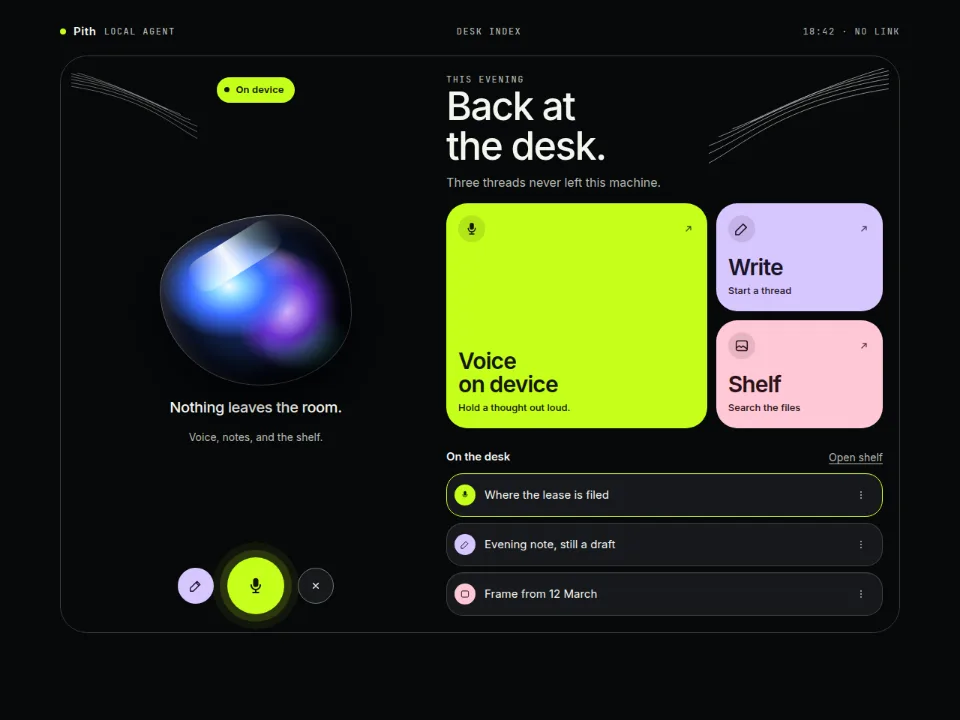
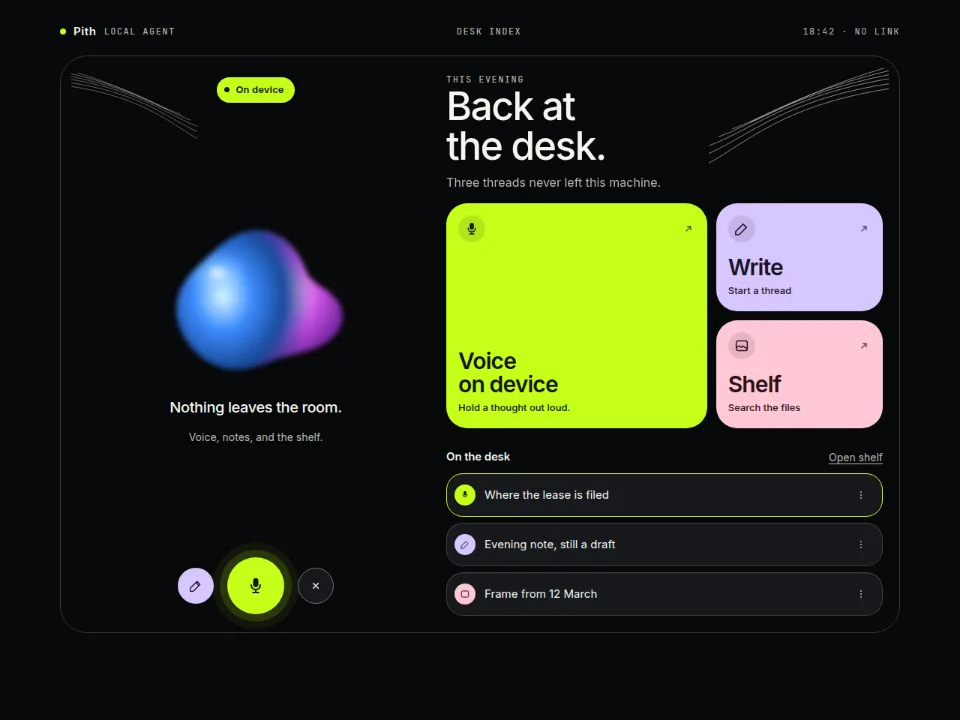
Soften the Acid Lime orb into a pinched smear. (#19)
The silhouette is an irregular lump instead of a rounded pebble, and the blue, cyan, and magenta feather into the black instead of sitting in hard spots.

Changed region(s): [[0.1562, 0.275, 0.375, 0.5194], [0.25, 0.55, 0.2812, 0.5806]]

diff --git a/templates/acid-lime/demo.html b/templates/acid-lime/demo.html
@@ -125,41 +125,25 @@
 
 	.orb {
 		width: 256px; height: 228px; position: relative; flex: none;
-		filter: drop-shadow(0 22px 16px rgb(0 0 0 / 0.55));
+		filter: blur(3.5px);
 	}
 	.orb-body {
-		position: absolute; inset: 0; overflow: hidden;
-		border-radius: 63% 37% 48% 52% / 44% 58% 42% 56%;
-		background:
-			radial-gradient(ellipse 56% 48% at 36% 42%, #f7feff 0%, #8ad8ff 14%, #3a6dff 36%, transparent 64%),
-			radial-gradient(ellipse 42% 50% at 66% 56%, #d7b4ff 0%, #6d32d4 34%, transparent 68%),
-			radial-gradient(ellipse 26% 22% at 58% 34%, #ffc4e4 0%, transparent 72%),
-			radial-gradient(ellipse 34% 28% at 76% 74%, #67f0ff 0%, transparent 70%),
-			radial-gradient(circle at 48% 52%, #16306c 0%, #090d1c 62%, #05060c 100%);
-		box-shadow:
-			inset 0 0 0 1px rgb(255 255 255 / 0.28),
-			inset 12px 10px 22px rgb(255 255 255 / 0.16),
-			inset -26px -22px 36px rgb(0 0 0 / 0.72);
+		position: absolute; inset: 0;
+		background-color: #121a30;
+		background-image:
+			radial-gradient(ellipse 40% 32% at 30% 34%, rgb(255 255 255 / 0.92) 0%, rgb(198 250 255 / 0.3) 16%, transparent 42%),
+			radial-gradient(ellipse 58% 76% at 33% 48%, #d7f8ff 0%, #3d8cff 26%, #1a4a9a 55%, transparent 78%),
+			radial-gradient(ellipse 56% 68% at 66% 46%, #ffd0f6 0%, #c44ee0 32%, #6a2498 58%, transparent 80%),
+			radial-gradient(ellipse 40% 46% at 50% 52%, rgb(120 220 255 / 0.45) 0%, transparent 62%),
+			radial-gradient(ellipse 34% 30% at 58% 66%, rgb(255 150 210 / 0.4) 0%, transparent 64%),
+			radial-gradient(ellipse 28% 34% at 76% 68%, rgb(110 245 255 / 0.5) 0%, transparent 68%),
+			radial-gradient(ellipse 80% 48% at 50% 112%, rgb(0 0 0 / 0.5) 0%, transparent 58%);
+		clip-path: polygon(50.0% 8.8%, 57.4% 9.9%, 64.0% 13.5%, 69.2% 18.8%, 72.9% 24.7%, 75.4% 30.7%, 77.5% 36.1%, 81.7% 40.5%, 88.2% 45.3%, 93.8% 52.0%, 95.6% 60.0%, 93.4% 67.8%, 88.1% 74.0%, 81.2% 78.2%, 74.0% 80.6%, 67.5% 82.3%, 61.7% 84.2%, 56.1% 86.5%, 50.0% 88.9%, 43.2% 90.5%, 36.0% 90.4%, 29.0% 88.3%, 22.8% 84.4%, 17.6% 79.2%, 13.4% 73.1%, 10.4% 66.4%, 8.7% 59.3%, 8.6% 52.0%, 10.2% 45.0%, 13.3% 38.6%, 17.3% 33.1%, 21.7% 28.2%, 26.1% 23.5%, 30.8% 18.7%, 36.2% 14.1%, 42.7% 10.4%);
 		animation: sheen var(--duration-sheen) var(--ease-ui) infinite;
 	}
-	.orb-body::before {
-		content: "";
-		position: absolute; width: 54%; height: 20%; left: 12%; top: 14%;
-		border-radius: var(--radius-full);
-		background: linear-gradient(90deg, transparent, rgb(255 255 255 / 0.95) 42%, rgb(214 255 255 / 0.4) 70%, transparent);
-		transform: rotate(-32deg);
-		filter: blur(0.6px);
-	}
-	.orb-body::after {
-		content: "";
-		position: absolute; inset: 0; border-radius: inherit; pointer-events: none;
-		background:
-			radial-gradient(ellipse 78% 74% at 46% 44%, transparent 46%, rgb(0 0 0 / 0.28) 72%, rgb(0 0 0 / 0.78) 100%);
-		box-shadow: inset 0 1px 0 rgb(255 255 255 / 0.35);
-	}
 	@keyframes sheen {
-		0%, 100% { border-radius: 63% 37% 48% 52% / 44% 58% 42% 56%; }
-		50% { border-radius: 52% 48% 58% 42% / 56% 44% 50% 50%; }
+		0%, 100% { transform: translate3d(0, 0, 0); }
+		50% { transform: translate3d(1.5%, 1%, 0); }
 	}
 
 	.topo {
@@ -306,7 +290,7 @@
 		background: var(--color-surface); display: grid; place-items: center;
 		position: relative; overflow: hidden;
 	}
-	.well .orb { width: 140px; height: 130px; }
+	.well .orb { width: 140px; height: 130px; filter: blur(2.5px); }
 	.radii { display: flex; align-items: flex-end; gap: 10px; min-height: 180px; padding: 8px; }
 	.radii i { display: block; background: var(--color-primary); color: var(--color-primary-foreground); }
 	.radii i:nth-child(1) { width: 48px; height: 64px; border-radius: var(--radius-sm); }
@@ -421,7 +405,7 @@
 	.cmp-on .note { color: var(--color-muted); }
 	.on-row { display: flex; flex-wrap: wrap; gap: 8px; align-items: center; }
 	.cmp-on .well { min-height: 120px; }
-	.cmp-on .orb { width: 92px; height: 86px; }
+	.cmp-on .orb { width: 92px; height: 86px; filter: blur(2px); }
 
 	.split { display: grid; grid-template-columns: minmax(0, 1fr) 340px; gap: 28px; align-items: start; }
 	.notes { margin: 14px 0 0; padding-left: 1.2em; display: grid; gap: 10px; }
@@ -437,7 +421,7 @@
 	.handset { padding-bottom: 30px; }
 	.handset .topo { width: 156px; height: 78px; top: 0; right: 0; }
 	.handset .capsule { align-self: center; position: relative; z-index: 1; }
-	.handset .orb { width: 112px; height: 104px; margin: 10px auto 0; }
+	.handset .orb { width: 112px; height: 104px; margin: 10px auto 0; filter: blur(2.5px); }
 	.handset h3 {
 		font-size: 32px; font-weight: 500; letter-spacing: -0.035em; line-height: 1.02;
 	}
@@ -474,7 +458,7 @@
 		.presence { gap: 10px; }
 		.presence-core { gap: 8px; }
 		.presence-line { font-size: 18px; }
-		.orb { width: 142px; height: 128px; }
+		.presence .orb { width: 142px; height: 128px; filter: blur(3px); }
 		.desk { gap: 12px; }
 		.recent { margin-top: 28px; }
 		.greet h1 { font-size: 34px; }
@@ -666,11 +650,11 @@
 			<div class="wrap">
 				<p class="kicker">02 — Shape and depth</p>
 				<h2>A glass body, a round corner</h2>
-				<p class="lede">The orb holds the color. The tiles are flat fills with a generous radius. Contour lines are a few strokes in the corner, not a texture.</p>
+				<p class="lede">The orb is a dented smear of blue, cyan, and magenta. The tiles stay flat fills with a generous radius. Contour lines are a few strokes in the corner, not a texture.</p>
 				<div class="specimens block">
 					<figure>
 						<div class="well"><div class="orb" aria-hidden="true"><span class="orb-body"></span></div></div>
-						<figcaption>One iridescent body. Blue, violet, cyan, a dark rim. It is presence, not a control.</figcaption>
+						<figcaption>One pinched lump. Blue, cyan, and magenta smear together, and the edge fades into the desk. It is presence, not a control.</figcaption>
 					</figure>
 					<figure>
 						<div class="well"><div class="radii" aria-hidden="true"><i></i><i></i><i></i><i></i></div></div>

diff --git a/templates/acid-lime/DESIGN.md b/templates/acid-lime/DESIGN.md
@@ -4,7 +4,7 @@ A worked example ships as `demo.html`: Pith, a local-first agent on a near-black
 
 ## Atmosphere
 
-Night, but a room, not a club. The ground is near-black. One acid lime is reserved for the thing a person presses and for the small live state. Lilac and blush are supporting tiles, softer and smaller. An iridescent glass orb is Pith’s presence: blue, violet, and cyan in a dark glassy body. It is not a letter, and it is not a button. Very fine contour lines sit in a corner, sparse, like a few elevation lines. They are not a grid and not a sound visualizer.
+Night, but a room, not a club. The ground is near-black. One acid lime is reserved for the thing a person presses and for the small live state. Lilac and blush are supporting tiles, softer and smaller. An iridescent glass orb is Pith’s presence: a pinched lump, not a smooth pebble. Blue, cyan, and magenta smear through each other and feather out. The rim dissolves into the desk. It is not a letter, and it is not a button. Very fine contour lines sit in a corner, sparse, like a few elevation lines. They are not a grid and not a sound visualizer.
 
 The product in the reference is Pith. Voice, notes, and the shelf stay on the machine. The cover is the desk itself: the orb and the voice control on one side, a greeting, three action tiles, and the threads already kept on the other. It is not a poster for the desk.
 
@@ -63,7 +63,7 @@ Nothing in the reference depends on a horizontal scroll.
 - **Ground.** `surface`, full bleed. No photograph, no lime wash, no horizon.
 - **Contour lines.** A few stroked curves in `surface-foreground` at about half opacity, tucked into a corner, `pointer-events: none`. Six lines is enough. They do not cross the greeting or the orb.
 - **Stage.** The desk’s frame. `surface` fill, 1px edge mixed down from `border`, `radius-2xl`, padding as above. It clips the contour lines.
-- **Orb.** One organic rounded body, wider than it is tall. The fill is layered: a white-cyan highlight, a violet mass, a blue core, a dark glass edge. A thin iridescent rim uses cyan, violet, and blush, not lime. A soft contact shadow sits under it. The orb is decorative. The sentence under it carries the meaning. It is not a control.
+- **Orb.** One irregular lump, wider than it is tall, with a dent rather than an even corner. Blue, cyan, and magenta overlap and feather. There is no hard color island and no stroke around the body. The highlight is a soft wet pool, not a cut bar. The outer paint fades into `surface`. The orb is decorative. The sentence under it carries the meaning. It is not a control.
 - **Capsule.** Lime fill, `primary-foreground` type, an ink dot, `radius-full`. It reads “On device”. It is status. It is not a button.
 - **Wordmark row.** Lime dot, the name, a mono legend, and the clock at the far side. The clock uses tabular numerals.
 - **Greeting.** Two short lines in `surface-foreground`, with a mono kicker above and one muted sentence below.
@@ -84,7 +84,7 @@ Nothing in the reference depends on a horizontal scroll.
 
 ## Motion
 
-The orb’s highlight eases a few pixels on `duration-sheen` (14s). The shape stays recognizable at the first frame. Hover and press use `duration-ui` (160ms) and `ease-ui`. A fine pointer may lift a tile 2px. The layout does not depend on hover. Press moves the voice circle and send 1px down.
+The smear drifts a few pixels on `duration-sheen` (14s). The first frame is the resting lump. Hover and press use `duration-ui` (160ms) and `ease-ui`. A fine pointer may lift a tile 2px. The layout does not depend on hover. Press moves the voice circle and send 1px down.
 
 Under `prefers-reduced-motion`, the sheen, the lift, and the press shift stop. The orb stays at its resting shape. Color and border changes remain.
 
